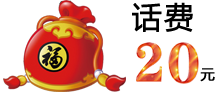
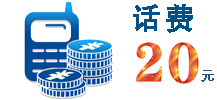
skin
从新春皮肤换回平时皮肤；修改公众号任务问题；去掉banner广告

diff --git a/static/js/appList.js b/static/js/appList.js
@@ -288,7 +288,7 @@ $("#MainPage").on("pagebeforeshow", function () {
 $("#MainPage").on("pageshow", function () {
     console.log("main page show");
     me.refreshScroll();
-    setTimeout("me.toggleAdBannerTimer()", 5000);
+    // setTimeout("me.toggleAdBannerTimer()", 5000);
 });
 
 $('#dialog').jqm({
@@ -984,10 +984,10 @@ var me = {
 
     requestTaskList : function()
     {
-        $("#tab-4 .app-list .section.available").empty();
-        $("#tab-4 .app-list .section.inprogress").empty();
-        $("#tab-4 .app-list .section.finished").empty();
-
+        $("#tab-4 .app-list .section.available").empty().append("<h5>可接任务</h5>");
+        $("#tab-4 .app-list .section.inprogress").empty().append("<h5>已接任务</h5>");
+        $("#tab-4 .app-list .section.finished").empty().append("<h5>已完成任务</h5>");
+        $("#tab-4 .app-list .section.timedout").empty().append("<h5>已超时任务</h5>");
         var phone_number = me.getPhoneNumber();
         var url = appServerUrl+"/get_tasklist?phone_number="+phone_number+"&"+callback;
         console.log("requestTaskList:" + url);
@@ -1393,10 +1393,20 @@ var me = {
         arrHtml.push("<div class='row'><dt><div>可获金币</div></dt><dd><div>"+$(obj).data("coin")+"枚</div></dd></div>");
         arrHtml.push("<div class='row'><dt><div>任务步骤</div></dt><dd><div>1，点击“领取任务”；<br>2，关注公众号；<br>3，向公众号发送“小鸿”；<br>4，点击返回的链接，在打开的页面中输入小鸿账号（手机号）领取金币；</div></dd></div>");
         arrHtml.push("<div class='row'><dt><div>微信公众号</div></dt><dd><div>"+$(obj).data("wechatid")+"  <a href='' id='copyToClipBdBtn' data-text="+$(obj).data("wechatid")+" class='ui-btn'>复制到剪贴板</a></div></dd></div>");
-        arrHtml.push("<div class='row'><dt><div>公众号二维码</div></dt><dd class='crcode'><img src="+$(obj).data("qrcodeurl")+"></dd></div></dl>");
-        if ($(obj).data("taskstatus")!='3') {
+        arrHtml.push("<div class='row'><dt><div>公众号二维码</div></dt><dd class='crcode'><img src="+$(obj).data("qrcodeurl")+"></dd></div>");
+
+        // task status: 1 可领取    2 已领取    3 已完成     4 超时
+        if ($(obj).data("taskstatus")=='1') { // 可领取
             arrHtml.push("<br><center><div>还有"+$(obj).data("remainnum")+"个名额</div></center>");
             arrHtml.push("<div class='account_exit' style='margin-top:20px; '><center><a href='' id='acceptTaskBtn' data-taskid='"+$(obj).data("taskid")+"' class='ui-btn'>领取任务</a></center></div>");
+        } else if ($(obj).data("taskstatus")=='2') { // 已领取
+            var date = new Date(parseInt($(obj).data("remaintime"))*1000);
+            var dateStr = convertDateToString(date);
+            arrHtml.push("<div class='row'><dt><div>到期时间</div></dt><dd><div>"+dateStr+"</div></dd></div>");
+        } else if ($(obj).data("taskstatus")=='3') { // 已完成
+            arrHtml.push("<br><center><div>已完成</div></center>");
+        } else if ($(obj).data("taskstatus")=='4') { // 超时
+            arrHtml.push("<br><center><div>已超时</div></center>");
         }
         $("#wechatTaskContent").append(arrHtml);
         $("#acceptTaskBtn").fastClick(function() {
@@ -1560,7 +1570,7 @@ var me = {
     {
         var arrHtml = new Array();
         arrHtml.push("<li data-taskid='"+task.id+"' data-taskname=\""+task.name+"\" ");
-        arrHtml.push("data-coin='"+task.coin_num+"' data-wechatid='"+task.weixin_id+"' data-qrcodeurl='"+task.qr_code_url+"' data-taskstatus='"+task.task_status+"' data-remainnum='"+task.remain_tasknum+"' class='index-item list-index' >");
+        arrHtml.push("data-coin='"+task.coin_num+"' data-wechatid='"+task.weixin_id+"' data-qrcodeurl='"+task.qr_code_url+"' data-taskstatus='"+task.task_status+"' data-remainnum='"+task.remain_tasknum+"' data-remaintime='"+task.remain_time+"' class='index-item list-index' >");
         arrHtml.push("<div class='index-item-main'>");
         arrHtml.push("<dl class='clearfix'>");
         arrHtml.push("<dt class='item-icon'><span class='app-tags hide'></span>");
@@ -1582,8 +1592,10 @@ var me = {
             arrHtml.push("<div class='ui-btn installBtn manageTab'><span>查看</span></div>");
         } else if (task.task_status == 2) {
             arrHtml.push("<div class='ui-btn installBtn manageTab inactive' ><span>已接</span></div>");
-        } else {
+        } else if (task.task_status == 3) {
             arrHtml.push("<div class='ui-btn installBtn manageTab'><span>已完成</span></div>");
+        } else {
+            arrHtml.push("<div class='ui-btn installBtn manageTab'><span>已超时</span></div>");
         }
 
         arrHtml.push("</div>");
@@ -1595,8 +1607,10 @@ var me = {
             $("#tab-4 .app-list .section.available").show().append(html);
         } else if (task.task_status == 2) {
             $("#tab-4 .app-list .section.inprogress").show().append(html);
-        } else {
+        } else if (task.task_status == 3) {
             $("#tab-4 .app-list .section.finished").show().append(html);
+        } else {
+            $("#tab-4 .app-list .section.timedout").show().append(html);
         }
     },
 
@@ -1895,7 +1909,8 @@ var me = {
             } else {
                 var passwd    = phone_number.substr(5, 6); // get phone number last 6 digit
                 var passwdMD5 = CryptoJS.MD5(passwd, { asString: true });
-                var url = appServerUrl+"/appregister?"+callback+"&phone_number="+phone_number+"&passwd="+passwdMD5+"&verify_code="+verify_code;
+                var gender = $("input:radio[name='gender']:checked").val() ;
+                var url = appServerUrl+"/appregister?"+callback+"&phone_number="+phone_number+"&passwd="+passwdMD5+"&verify_code="+verify_code+"&gender="+gender;
                 if (inviteCode && inviteCode.length > 0 && inviteCode != "选填") {
                     url += "&invite_code=" + inviteCode;
                 }

diff --git a/static/css/wificonnector.css b/static/css/wificonnector.css
@@ -67,7 +67,7 @@ body{-moz-user-select:none;-webkit-user-select:none;-ms-user-select:none;-khtml-
 .app-list .reward { /*padding-left: 6px; */color: red; }
 .app-list .installBtn.inactive { background: transparent; }
 .app-list .installBtn.manageTab { background: transparent; }
-.app-list .bigLogo-instBtn { width: 50px; height: 24px; padding: 0; margin-top: 0; top: auto; bottom: -5px; border-radius: 3px; background: #d6001d; font: 300 12px/24px 'STHeiti'; color:#fff; text-align: center; letter-spacing: 1px; }
+.app-list .bigLogo-instBtn { /*width: 100%; height: 100%;*/ width: 50px; height: 24px; padding: 0; margin-top: 0; top: auto; bottom: -5px; border-radius: 3px; background: #0A94D7; font: 300 12px/24px 'STHeiti'; color:#fff; text-align: center; letter-spacing: 1px; }
 .app-list li .bigLogo-instBtn:hover { background: rgba(0,0,0,0.5); }
 .app-list .h.baiying-name {font-size: 16px;height: 22px;padding-top: 2px;}
 .app-list .app-down-des { text-align: left; padding: 0; margin-top: 5px; color: #0A94D7; /*background: url("../images/coins.png") no-repeat 60px 40%;*/ background-size: 14px; border: 0; font: 100 10px '微软雅黑'; }
@@ -78,7 +78,7 @@ body{-moz-user-select:none;-webkit-user-select:none;-ms-user-select:none;-khtml-
 .app-list .installBtn.inactive span { border-radius: 10px; font-size: 14px; background: #bebebe; color: #fff; display: inline-block; padding: 3px 5px 1px 6px; margin-top: 10px; text-shadow: none; }
 .app-list .installBtn.inactive.hasInstalled span { background: rgb(245,149,13); color: #fff; }
 .app-list .installBtn.app-downing--t3 { background: #fff; }
-
+#tab-4 .app-list .section h5 {padding-left: 8px; }
 
 .exchange_list .coin_icon {position: absolute; width: 20px; top:30px; right: 75px;}
 .exchange_list .coin_num { position: absolute; width: 55px; bottom: 10px; right: 10px; padding-left: 16px; color: #4d4d4d; font-size: 12px; background: url("../images/coins.png") no-repeat left center; background-size: 14px; }
@@ -155,10 +155,10 @@ body{-moz-user-select:none;-webkit-user-select:none;-ms-user-select:none;-khtml-
 .ui-footer .ui-navbar .ui-btn {font-size: 14px; color: gray; }
 .ui-footer .ui-navbar .ui-btn.ui-btn-active {background-color: #f6f6f6; font-size: 14px; color: #0A94D7; text-shadow:0 0 0 ;}
 
-.ui-icon-choice:after {background: url(../images/tab_choice_active.png) no-repeat; background-size:22px,22px; border-radius: 0; background-position: center; height: 25px; }
-.ui-icon-mine:after {background: url(../images/tab_mine_active.png) no-repeat; background-size:22px,22px; border-radius: 0; background-position: center; height: 25px; }
-.ui-icon-wifi:after {background: url(../images/tab_wifi_active.png) no-repeat; background-size:22px,22px; border-radius: 0; background-position: center; height: 25px; }
-.ui-icon-humor:after {background: url(../images/tab_humor_active.png) no-repeat; background-size:22px,22px; border-radius: 0; background-position: center; height: 25px; }
+.ui-icon-choice:after {background: url(../images/tab_choice.png) no-repeat; background-size:22px,22px; border-radius: 0; background-position: center; height: 25px; }
+.ui-icon-mine:after {background: url(../images/tab_mine.png) no-repeat; background-size:22px,22px; border-radius: 0; background-position: center; height: 25px; }
+.ui-icon-wifi:after {background: url(../images/tab_wifi.png) no-repeat; background-size:22px,22px; border-radius: 0; background-position: center; height: 25px; }
+.ui-icon-humor:after {background: url(../images/tab_humor.png) no-repeat; background-size:22px,22px; border-radius: 0; background-position: center; height: 25px; }
 .ui-btn-active.ui-icon-choice:after {background: url(../images/tab_choice_active.png) no-repeat; background-size:22px,22px; border-radius: 0; background-position: center; height: 25px; }
 .ui-btn-active.ui-icon-mine:after {background: url(../images/tab_mine_active.png) no-repeat; background-size:22px,22px; border-radius: 0; background-position: center; height: 25px; }
 .ui-btn-active.ui-icon-wifi:after {background: url(../images/tab_wifi_active.png) no-repeat; background-size:22px,22px; border-radius: 0; background-position: center; height: 25px; }
@@ -249,7 +249,7 @@ li { list-style: none; }
 .des-main, .changelog-main { color: #333; line-height: 22px; }
 .des-long-content { padding-bottom: 22px; }
 .content-navdes-wrapper { margin-top: 10px; padding: 0 13px; }
-
+#wechatTaskContent dt div {font-weight: bold; }
 .wechatTaskDetail {padding:15px;}
 .wechatTaskDetail dt {float:left; width:100px;  min-height: 40px; padding-top: 10px; }
 .wechatTaskDetail dd {margin-left: 120px; min-height: 40px; padding-top: 10px; color:#5d5d5d;}

diff --git a/static/appBase.html b/static/appBase.html
@@ -66,8 +66,8 @@
 
         <div id="genderFields">
             <p style="backg"><font color="#2EB1E8" >性 别</font></p>
-            <div class="radioWrapper"><input id="male"   type="radio" name="gender" value="1"/><span>男</span></div>
-            <div class="radioWrapper"><input id="female" type="radio" name="gender" value="2"/><span>女</span></div>
+            <div class="radioWrapper"><input id="male"   type="radio" name="gender" value="M"/><span>男</span></div>
+            <div class="radioWrapper"><input id="female" type="radio" name="gender" value="F"/><span>女</span></div>
         </div>
 
         <div id="inviteCodeFields">
@@ -237,13 +237,12 @@
                             <div class="scroller-content">
                                 <div class="app-list">
                                     <div class="section available hide">
-                                        <h5>可接任务</h5>
                                     </div>
                                     <div class="section inprogress hide">
-                                        <h5>已接任务</h5>
                                     </div>
                                     <div class="section finished hide">
-                                        <h5>已完成任务</h5>
+                                    </div>
+                                    <div class="section timedout hide">
                                     </div>
                                 </div>
                             </div>

diff --git a/static/js/appBase.js b/static/js/appBase.js
@@ -96,6 +96,36 @@ function dateDiff(date1Str, date2Str)
     return parseInt(Math.abs(date1.getTime() - date2.getTime())/1000/60/60/24);    // ms -> day
 }
 
+function convertDateToString(datetime)
+{
+    var year = datetime.getFullYear();
+    var month = datetime.getMonth()+1;//js从0开始取 
+    var date = datetime.getDate(); 
+    var hour = datetime.getHours(); 
+    var minutes = datetime.getMinutes(); 
+    var second = datetime.getSeconds();
+
+    if (month<10) {
+        month = "0" + month;
+    }
+    if (date<10) {
+        date = "0" + date;
+    }
+    if (hour <10) {
+        hour = "0" + hour;
+    }
+    if (minutes <10){
+        minutes = "0" + minutes;
+    }
+    if (second <10) {
+        second = "0" + second ;
+    }
+    var time1 = year+"年"+month+"月"+date+"日";
+    var time2 = hour+"时"+minutes+"分";
+    var time = time1+" "+time2;
+    return time; 
+}
+
 function changePage(pageName)
 {
     if (isAndroid()) {
